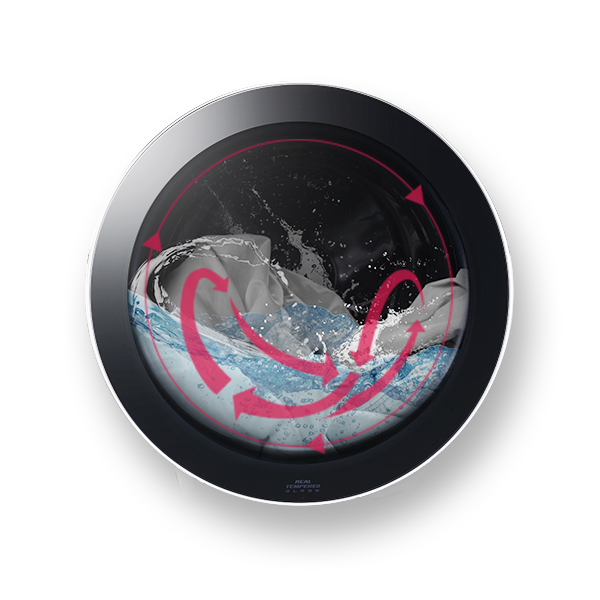
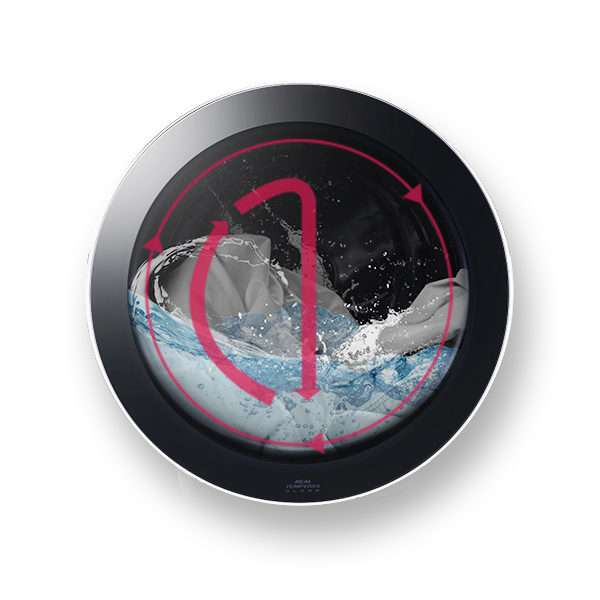
11111

diff --git a/images/washing-machines/md_new/usp/md_new_local.html b/images/washing-machines/md_new/usp/md_new_local.html
@@ -104,7 +104,7 @@
 				<div class="title animate">
 					<p class="eyebrow">퀵서클 컨트롤</p>
 					<h3 class="tit"><span>돌리면 끝나는 <br class="only_m">세상 편한 세탁</span></h3>
-					<p class="desc">세탁이 쉬워지려면 조작부터 간편해야죠. 그래서 필요한 모든 기능을 심플한 다이얼 하나에 담았습니다. 보기 쉬운 UI로 쓰는 법도 간단하죠.</p>
+					<p class="desc">세탁이 쉬워지려면 조작부터 간편해야죠. 그래서 필요한 모든 기능을 심플한 다이얼 하나에 담았습니다. <br class="only_pct">보기 쉬운 UI로 쓰는 법도 간단하죠.</p>
 				</div>
 				<div class="box animate">
 					<p class="img_resp only_m"><video src="./img_scene01_1_m.mp4" muted loop playsinline></video></p>
@@ -140,7 +140,7 @@
 				<div class="title animate">
 					<p class="eyebrow">인공지능 DD모터 x 6모션</p>
 					<h3 class="tit"><span>그 무엇보다 <br class="only_m">옷을 배려합니다</span></h3>
-					<p class="desc">하는 일이 다르고, 입는 옷이 달라도 걱정 마세요. 옷감의 무게와 종류, 오염도까지 인공지능 DD모터가 알아서 인식하니까요. 여기에 6모션이 최적의 코스를 맞춰주니까 손으로 직접 빤 듯 섬세한 세탁이 가능하죠.</p>
+					<p class="desc">하는 일이 다르고, 입는 옷이 달라도 걱정 마세요. 옷감의 무게와 종류, 오염도까지 인공지능 DD모터가 <br class="only_pct">알아서 인식하니까요. 여기에 6모션이 최적의 코스를 맞춰주니까 손으로 직접 빤 듯 섬세한 세탁이 가능하죠.</p>
 				</div>
 				<div class="box">
 					<!-- slide : slide_step -->
@@ -237,8 +237,8 @@
 									</dl>
 									<div class="info_box">
 										<!-- info_box_cont -->
-										<div class="info_box_cont">
-											<a href="#" class="ico_c on">
+										<div class="info_box_cont loop_pagn">
+											<!--<a href="#" class="ico_c on">
 												<p class="ico_box"><img src="./ico_img_scene02_1_4_1.svg" alt=""></p>
 												<p>두드리기</p>
 											</a>
@@ -261,14 +261,38 @@
 											<a href="#" class="ico_c">
 												<p class="ico_box"><img src="./ico_img_scene02_1_4_6.svg" alt=""></p>
 												<p>흔들기</p>
-											</a>
+											</a>-->
 										</div>
 										<!-- //info_box_cont -->
 									</div>
-									<div class="info_obj">
-										<ul class="info_obj_box">
-											<li><img src="./img_scene02_1_obj4_1_m.jpg" alt=""></li>
-										</ul>
+									<div class="info_obj loop_slider">
+						<!-- swiper-container -->
+						<div class="swiper-container">
+							<!-- swiper-wrapper -->
+							<ul class="swiper-wrapper">
+								<li class="swiper-slide currentActive">
+									<img src="./img_scene02_1_obj4_1_m.jpg" alt="">
+								</li>
+								<li class="swiper-slide"><img src="./img_scene02_1_obj4_2_m.jpg" alt=""></li>
+								<li class="swiper-slide"><img src="./img_scene02_1_obj4_3_m.jpg" alt=""></li>
+								<li class="swiper-slide"><img src="./img_scene02_1_obj4_4_m.jpg" alt=""></li>
+								<li class="swiper-slide"><img src="./img_scene02_1_obj4_5_m.jpg" alt=""></li>
+								<li class="swiper-slide"><img src="./img_scene02_1_obj4_6_m.jpg" alt=""></li>
+							</ul>
+							<!-- //swiper-wrapper -->
+						</div>
+						<!-- //swiper-container -->
+										
+										
+										
+										<!--<ul class="info_obj_box loop_ty">
+											<li class="on"><img src="./img_scene02_1_obj4_1_m.jpg" alt=""></li>
+											<li><img src="./img_scene02_1_obj4_2_m.jpg" alt=""></li>
+											<li><img src="./img_scene02_1_obj4_3_m.jpg" alt=""></li>
+											<li><img src="./img_scene02_1_obj4_4_m.jpg" alt=""></li>
+											<li><img src="./img_scene02_1_obj4_5_m.jpg" alt=""></li>
+											<li><img src="./img_scene02_1_obj4_6_m.jpg" alt=""></li>
+										</ul>-->
 									</div>
 								</li>
 							</ul>
@@ -296,7 +320,7 @@
 				<div class="title animate">
 					<p class="eyebrow">인공지능 스마트 센서</p>
 					<h3 class="tit"><span>세탁 초보도 <br class="only_m">걱정 잊게 만드는 세심함</span></h3>
-					<p class="desc">이제 아이 옷, 어른 옷 구분 없이 한 번에 안심 세탁하세요. 정밀 센서와 인공지능 DD모터가 세탁물에 따라 세제량, 헹굼 횟수를 알아서 척척 조절해 혹시 모를 잔여 세제까지 말끔하게 제거해줍니다.</p>
+					<p class="desc">이제 아이 옷, 어른 옷 구분 없이 한 번에 안심 세탁하세요. 정밀 센서와 인공지능 DD모터가 세탁물에 따라 <br class="only_pct">세제량, 헹굼 횟수를 알아서 척척 조절해 혹시 모를 잔여 세제까지 말끔하게 제거해줍니다.</p>
 				</div>
 				<div class="box animate">
 					<div class="img_txt_info only_m">
@@ -321,7 +345,7 @@
 				<div class="title animate">
 					<p class="eyebrow">인공지능 스마트 케어</p>
 					<h3 class="tit"><span>우리 가족 일거수일투족 <br class="only_m">맞춤 케어</span></h3>
-					<p class="desc">오늘은 어떤 옷을 입었는지, 오늘 날씨는 어땠는지 트롬이 당신의 하루를 빠르게 학습하여 최적의 코스를 추천합니다. 평소 세탁 습관도 똑똑하게 기억하니까 복잡한 설정 없이 시작 버튼만 누르세요.<sup><a href="#dec_info02" class="btn_go_info">2</a></sup></p>
+					<p class="desc">오늘은 어떤 옷을 입었는지, 오늘 날씨는 어땠는지 트롬이 당신의 하루를 빠르게 학습하여 최적의 코스를 추천합니다. <br class="only_pct">평소 세탁 습관도 똑똑하게 기억하니까 복잡한 설정 없이 시작 버튼만 누르세요.<sup><a href="#dec_info02" class="btn_go_info">2</a></sup></p>
 				</div>
 				<div class="box">
 					<!-- slide -->
@@ -403,7 +427,7 @@
 				<div class="title animate">
 					<p class="eyebrow">스마트 페어링</p>
 					<h3 class="tit"><span>세탁기와 건조기를 넘어 <br class="only_m">이제 스타일러까지</span></h3>
-					<p class="desc">세탁 천재 트롬답게 기기 간의 정보 공유도 똑소리 납니다. 세탁 중인 빨래 정보를 건조기가 그대로 이어받고 특별 케어가 필요한 의류는 스타일러에 바로 공유되죠.<sup><a href="#dec_info03" class="btn_go_info">3</a></sup></p>
+					<p class="desc">세탁 천재 트롬답게 기기 간의 정보 공유도 똑소리 납니다. 세탁 중인 빨래 정보를 <br class="only_pct">건조기가 그대로 이어받고 특별 케어가 필요한 의류는 스타일러에 바로 공유되죠.<sup><a href="#dec_info03" class="btn_go_info">3</a></sup></p>
 				</div>
 				<div class="box animate">
 					<div class="img only_m">
@@ -439,7 +463,7 @@
 				<div class="title animate">
 					<p class="eyebrow">초강력 5방향 터보샷+</p>
 					<h2 class="tit"><span>세탁은 빠르게 <br class="only_m">환경은 바르게</span></h2>
-					<p class="desc">상하좌우 5방향에서 뿜어내는 초강력 터보샷은 세탁 시간을 획기적으로 줄여줍니다. 5개의 물살이 코스에 따라 세기와 방향을 자동으로 조절해 옷감은 똑똑하게 보호하고, 시간은 최대 30분까지 절약해주죠. 여기에 물 사용량도 30% 확 줄여 환경에도 유익합니다.<sup><a href="#dec_info04" class="btn_go_info">4</a></sup></p>
+					<p class="desc">상하좌우 5방향에서 뿜어내는 초강력 터보샷은 세탁 시간을 획기적으로 줄여줍니다. 5개의 물살이 코스에 따라 <br class="only_pct">세기와 방향을 자동으로 조절해 옷감은 똑똑하게 보호하고, 시간은 최대 30분까지 절약해주죠. <br class="only_pct">여기에 물 사용량도 30% 확 줄여 환경에도 유익합니다.<sup><a href="#dec_info04" class="btn_go_info">4</a></sup></p>
 				</div>
 				<div class="box animate">
 					<p class="img only_m"><video src="./img_scene03_1_m.mp4" muted loop playsinline></video></p>
@@ -460,7 +484,7 @@
 				<div class="title animate">
 					<p class="eyebrow">특허받은 100℃ 트루스팀</p>
 					<h2 class="tit"><span>유해 세균 99.99% <br class="only_m">완전 박멸</span></h2>
-					<p class="desc">새로워진 트롬은 살균 능력도 가히 압도적입니다. 일반 물 입자보다 1600배 작은 100℃ 고온 스팀이 옷감 구석구석 침투하여 미세 세균, 바이러스, 냄새 입자까지 완벽한 수준으로 제거해주죠. 물론 찌든 때, 얼룩 제거 같은 세탁 본연의 능력도 환상적입니다.<sup><a href="#dec_info05" class="btn_go_info">5</a></sup></p>
+					<p class="desc">새로워진 트롬은 살균 능력도 가히 압도적입니다. 일반 물 입자보다 1600배 작은 100℃ 고온 스팀이 <br class="only_pct">옷감 구석구석 침투하여 미세 세균, 바이러스, 냄새 입자까지 완벽한 수준으로 제거해주죠. <br class="only_pct">물론 찌든 때, 얼룩 제거 같은 세탁 본연의 능력도 환상적입니다.<sup><a href="#dec_info05" class="btn_go_info">5</a></sup></p>
 				</div>
 				<div class="box animate">
 					<p class="img only_m"><video src="./img_scene03_2_m.mp4" muted loop playsinline></video></p>
@@ -481,7 +505,7 @@
 				<div class="title animate">
 					<p class="eyebrow">스테인리스 세탁통</p>
 					<h2 class="tit"><span>오래도록 한결같은 <br class="only_m">위생 능력</span></h2>
-					<p class="desc">우리 가족 옷을 책임지는 세탁기니까 철저한 위생은 기본이죠. 그래서 세탁통은 물론 옷감이 닿는 부분까지 녹과 부식에 강한 스테인리스 소재를 적용했습니다. 통살균 코스를 활용하면 세탁통 내부 청소와 세균 살균까지 청결하게 관리해주죠.<sup><a href="#dec_info06" class="btn_go_info">6</a></sup></p>
+					<p class="desc">우리 가족 옷을 책임지는 세탁기니까 철저한 위생은 기본이죠. <br class="only_pct">그래서 세탁통은 물론 옷감이 닿는 부분까지 녹과 부식에 강한 스테인리스 소재를 적용했습니다. <br class="only_pct">통살균 코스를 활용하면 세탁통 내부 청소와 세균 살균까지 청결하게 관리해주죠.<sup><a href="#dec_info06" class="btn_go_info">6</a></sup></p>
 				</div>
 				<div class="box animate">
 					<p class="img only_m"><img src="./img_scene03_3_m.jpg" alt=""></p>
@@ -499,7 +523,7 @@
 				<div class="title animate">
 					<p class="eyebrow">24kg 대용량 세탁</p>
 					<h2 class="tit"><span>거대한 용량의 <br class="only_m">위대한 역량</span></h2>
-					<p class="desc">당신의 할 일을 조금이나마 줄이고자 용량을 최대로 키웠습니다. 덕분에 평일 내내 쌓인 빨래도 주말 하루면 충분히 해결할 수 있죠.<sup><a href="#dec_info07" class="btn_go_info">7</a></sup></p>
+					<p class="desc">당신의 할 일을 조금이나마 줄이고자 용량을 최대로 키웠습니다. <br class="only_pct">덕분에 평일 내내 쌓인 빨래도 주말 하루면 충분히 해결할 수 있죠.<sup><a href="#dec_info07" class="btn_go_info">7</a></sup></p>
 				</div>
 				<div class="box scene03_4_ani animate">
 					<div class="img only_m">
@@ -520,7 +544,7 @@
 				<div class="title animate">
 					<p class="eyebrow">LG ThinQ 앱</p>
 					<h2 class="tit"><span>어디서든 무엇이든 <br class="only_m">바로바로</span></h2>
-					<p class="desc">당신이 들어오기 전에 알아서 세탁을 마치고, 궁금한 내용은 빠르게 체크하고, 원하는 대로 다 됐으면 즉시 알려주는 LG ThinQ로 스마트한 세탁 생활을 누려보세요.<sup><a href="#dec_info08" class="btn_go_info">8</a></sup></p>
+					<p class="desc">당신이 들어오기 전에 알아서 세탁을 마치고, 궁금한 내용은 빠르게 체크하고, <br class="only_pct">원하는 대로 다 됐으면 즉시 알려주는 LG ThinQ로 스마트한 세탁 생활을 누려보세요.<sup><a href="#dec_info08" class="btn_go_info">8</a></sup></p>
 				</div>
 				<div class="box animate">
 					<div class="img only_m"><img src="./img_scene03_5_m.jpg" alt="">

diff --git a/images/washing-machines/md_new/usp/md_new.css b/images/washing-machines/md_new/usp/md_new.css
@@ -10,6 +10,7 @@
 .washing_machines_202106 * {word-wrap:break-word;word-break:keep-all;white-space:normal;}
 .washing_machines_202106 .hidden {position:absolute !important;width:1px !important;height:1px !important;clip:rect(1px,1px,1px,1px);word-break:initial;overflow:hidden;z-index:-1;}
 .washing_machines_202106 .only_pc {display:none;}
+.washing_machines_202106 .only_pct {display:none;}
 .washing_machines_202106 .only_m {display:block;}
 .washing_machines_202106 img {max-width:100%;margin:0 auto;}
 .washing_machines_202106 .ico_ani {display:block;position:absolute;left:0;top:0;width:100%;height:100%;}
@@ -36,6 +37,7 @@
 
 @media only screen and (min-width:768px) {
 .washing_machines_202106 {font-size:18px;line-height:26px;}
+
 	
 /* feature_cont */
 .washing_machines_202106 .feature_cont {padding:140px 40px 0 40px;}
@@ -43,6 +45,10 @@
 /* btn_go_info */
 .washing_machines_202106 a.btn_go_info {height:25px;font-size:11px;line-height:20px;transition:color 0.4s;}
 .washing_machines_202106 a.btn_go_info:hover {color:#da0f47;}
+}
+
+@media only screen and (min-width:950px) {
+.washing_machines_202106 .only_pct {display:block;}
 }
 
 
@@ -81,10 +87,10 @@
 
 /** -Tablet UI- **/
 @media only screen and (min-width:768px) {
-.washing_machines_202106 .title {width:90%;margin:0 auto;text-align:center;}
+.washing_machines_202106 .title {/*width:90%;*/margin:0 auto;text-align:center;}
 .washing_machines_202106 .eyebrow {margin-bottom:10px;font-size:18px;line-height:26px;}
-.washing_machines_202106 .tit {left:0;padding:0 50px;font-size:40px;line-height:48px;}
-.washing_machines_202106 .desc {margin-top:40px;padding:0 50px;}
+.washing_machines_202106 .tit {left:0;font-size:40px;line-height:48px;}
+.washing_machines_202106 .desc {margin-top:40px;}
 .washing_machines_202106 .btn_cat {margin-top:40px;text-align:center;}
 .washing_machines_202106 .btn_cat a {padding:10px 40px;border-radius:50px;transition:background 0.4s, color 0.4s;}
 .washing_machines_202106 .btn_cat a:hover {background-color:#222;color:#fff;}
@@ -93,10 +99,10 @@
 
 /** -PC UI- **/
 @media only screen and (min-width:1280px) {
-.washing_machines_202106 .title {width:80%;}
+.washing_machines_202106 .title {/*width:80%;*/}
 .washing_machines_202106 .eyebrow {margin-bottom:28px;font-size:20px;line-height:28px;}
-.washing_machines_202106 .tit {padding:0 75px;font-size:52px;line-height:60px;}
-.washing_machines_202106 .desc {margin-top:34px;padding:0 75px;}
+.washing_machines_202106 .tit {font-size:52px;line-height:60px;}
+.washing_machines_202106 .desc {margin-top:34px;}
 }
 
 
@@ -182,6 +188,7 @@
 /** -Tablet UI- **/
 @media only screen and (min-width:768px) {
 /* btn_anchor */
+.washing_machines_202106 .section_cont.main .feature_cont .tit {padding:0 50px;}
 .washing_machines_202106 .section_cont.main .feature_cont .btn_anchor {padding:0 50px;}
 .washing_machines_202106 .section_cont.main .feature_cont .btn_anchor a {transition:color 0.4s;}
 .washing_machines_202106 .section_cont.main .feature_cont .btn_anchor a:hover {color:#fa263e;}	
@@ -193,6 +200,7 @@
 .washing_machines_202106 .section_cont.main .feature_cont {min-height:630px;}
 	
 /* btn_anchor */
+.washing_machines_202106 .section_cont.main .feature_cont .tit {padding:0 75px;}
 .washing_machines_202106 .section_cont.main .feature_cont .btn_anchor {padding:0 75px;}
 }
 
@@ -287,7 +295,7 @@
 .washing_machines_202106 .slide_step .info_box_cont .ico_c:first-child:after {display:none;}
 .washing_machines_202106 .slide_step .info_box_cont02 .ico_c {position:absolute;left:27px;top:10px;width:60px;}
 
-.washing_machines_202106 .slide_step .info_box_cont a.ico_c {display:inline-block;position:relative;width:45px;color:#b5b5b5;font-size:0;vertical-align:top;transition:color 0.4s;} 
+.washing_machines_202106 .slide_step .info_box_cont a.ico_c {display:inline-block;position:relative;width:15.5%;color:#b5b5b5;font-size:0;vertical-align:top;transition:color 0.4s;} 
 .washing_machines_202106 .slide_step .info_box_cont a.ico_c p {font-size:10px;}
 .washing_machines_202106 .slide_step .info_box_cont a.ico_c .ico_box {background:none;}
 .washing_machines_202106 .slide_step .info_box_cont a.ico_c .ico_box:before {display:none;}
@@ -297,6 +305,21 @@
 .washing_machines_202106 .slide_step .info_box_cont a.ico_c.on {color:#da0f47;} 
 .washing_machines_202106 .slide_step .info_box_cont a.ico_c.on:before,
 .washing_machines_202106 .slide_step .info_box_cont a.ico_c.on .ico_box:after {background-color:#da0f47;}
+
+
+.washing_machines_202106 .loop_pagn {height:auto;}
+.washing_machines_202106 .loop_pagn .swiper-pagination-bullet {position:relative;width:15.5%;height:auto;margin:0;padding:43px 0 0 0;background:none !important;border-radius:0; color:#b5b5b5;font-size:10px;font-weight:500;line-height:10px;transition:color 0.4s;}
+.washing_machines_202106 .loop_pagn .swiper-pagination-bullet:before {position:absolute;left:50%;top:37px;width:18px;height:1px;margin-left:-9px;background:#b5b5b5;content:"";transition:background 0.4s;}
+.washing_machines_202106 .loop_pagn .swiper-pagination-bullet:after {position:absolute;left:50%;top:3px;width:29px;height:29px;background:#b5b5b5 center/100% no-repeat;border-radius:50%;content:"";transform:translateX(-50%);transition:background 0.4s;}
+.washing_machines_202106 .loop_pagn .swiper-pagination-bullet.i1:after {background-image:url("ico_img_scene02_1_4_1.svg");}
+.washing_machines_202106 .loop_pagn .swiper-pagination-bullet.i2:after {background-image:url("ico_img_scene02_1_4_2.svg");}
+.washing_machines_202106 .loop_pagn .swiper-pagination-bullet.i3:after {background-image:url("ico_img_scene02_1_4_3.svg");}
+.washing_machines_202106 .loop_pagn .swiper-pagination-bullet.i4:after {background-image:url("ico_img_scene02_1_4_4.svg");}
+.washing_machines_202106 .loop_pagn .swiper-pagination-bullet.i5:after {background-image:url("ico_img_scene02_1_4_5.svg");}
+.washing_machines_202106 .loop_pagn .swiper-pagination-bullet.i6:after {background-image:url("ico_img_scene02_1_4_6.svg");}
+.washing_machines_202106 .loop_pagn .swiper-pagination-bullet.swiper-pagination-bullet-active {color:#da0f47;}
+.washing_machines_202106 .loop_pagn .swiper-pagination-bullet.swiper-pagination-bullet-active:before {background-color:#da0f47;}
+.washing_machines_202106 .loop_pagn .swiper-pagination-bullet.swiper-pagination-bullet-active:after {background-color:#da0f47;}
 
 
 /* Active */
@@ -310,7 +333,9 @@
 .washing_machines_202106 .slide_step .info_obj {background:#fff;}
 .washing_machines_202106 .slide_step .info_obj_box {position:relative;width:300px;margin:0 auto;}
 .washing_machines_202106 .slide_step .info_obj_box li {position:absolute;left:0;top:0;width:100%;}
-.washing_machines_202106 .slide_step .info_obj_box.resp {width:360px;margin:0 -25px 0 -25px}
+.washing_machines_202106 .slide_step .info_obj_box.resp {width:360px;margin:0 -25px 0 -25px;}
+.washing_machines_202106 .slide_step .info_obj_box.loop_ty li {display:none;}
+.washing_machines_202106 .slide_step .info_obj_box.loop_ty li.on {display:block;}
 
 @media only screen and (min-width:410px) {
 .washing_machines_202106 .slide_step .info_obj_box.resp {width:360px;margin:0 auto;}
@@ -335,6 +360,10 @@
 .washing_machines_202106 .slide_step .c3.swiper-slide-active .cir {animation:obj_box3_2 both infinite linear 2.5s 0.4s;}
 .washing_machines_202106 .slide_step .c3.swiper-slide-active .obj4 .cir {animation-delay:0.7s;}
 .washing_machines_202106 .slide_step .c3.swiper-slide-active .obj5 .cir {animation-delay:1s;}
+
+/* Step3 */
+.washing_machines_202106 .loop_slider {position: relative;width:300px;margin:0 auto;}
+.washing_machines_202106 .loop_slider .swiper-slide {width:300px;height:300px;padding:0;}
 
 
 @keyframes obj_box2_1 {

diff --git a/images/washing-machines/md_new/usp/md_new.js b/images/washing-machines/md_new/usp/md_new.js
@@ -2,6 +2,42 @@
     세탁기 : 21.06
 */
 
+function slideLoopSlider() {
+	var $target = $('.washing_machines_202106 .loop_slider .swiper-container');
+	var menu = ['두드리기', '주무르기', '비비기', '풀어주기', '꼭꼭짜기', '흔들기']
+	var slideOption = {
+		effect :'fade', // 페이드 효과 사용
+		loop:true,
+        pagination: {
+            el: '.loop_pagn',
+            clickable: true,
+			renderBullet: function (index, className) {
+				return '<div class=" ' + className +' i' + (index + 1) + ' ">' + (menu[index]) + '</div>';	
+        	},
+        },
+		navigation:false,
+        autoplay: {
+          delay: 2000,
+          disableOnInteraction: false,
+        },
+		speed:700,
+		//observer:true,
+		//observeParents:true,
+		on:{
+			slideChange:function(){
+				var idx = this.realIndex + 1
+				if($(idx ==2)){
+					
+				}
+			},
+		},
+	};
+	slideLoop = new Swiper($target.get(0), slideOption);
+	slideLoop.autoplay.stop();
+}
+
+
+
 
 /** 인공지능 DD모터 x 6모션 **/
 function slideStepSlider() {
@@ -25,12 +61,19 @@ function slideStepSlider() {
 		observeParents:true,
 		on:{
 			slideChange:function(){
+				
 				var idx = this.realIndex + 1
 				if($(idx ==2)){
 					var numbers = [
 						{$el:$('.slide_step .obj3 .count'), first:0, last:24, duration:2000},
 					]
 					countNumAni(numbers);
+					//slideLoop.autoplay.stop();
+				}
+				if($(idx ==4)){
+					
+					slideLoop.slideTo(1);
+					slideLoop.autoplay.start();
 				}
 			},
 		},
@@ -102,8 +145,8 @@ $(function(){
 	/* Swiper */
 	slideStepSlider();
 	slideWeatherSlider();
-	
-	
+	slideLoopSlider();
+
 	/* 페이지 내 스크롤 앵커  */
     $('.washing_machines_202106 .btn_go_info').click(function(e){
         e.preventDefault();
